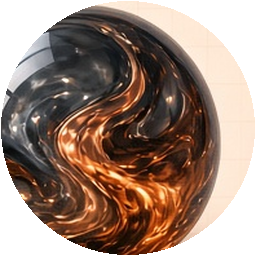
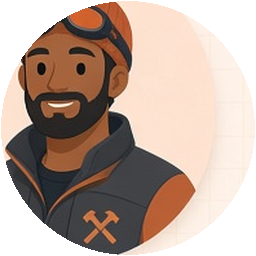
Johnny reverse lock: illustrated portraits, not orbs
Restore face sheets + marquee v2; re-slice avatars; Muse docs/art DNA for people portraits.

diff --git a/docs/art/ASSETS.md b/docs/art/ASSETS.md
@@ -1,31 +1,27 @@
 # Art assets — `public/kinso/`
 
-Box source of truth: `/workspace/byfae-assets/kinso-clone/`
+Box source: `/workspace/byfae-assets/kinso-clone/`
 
 ## Product UI
 | File | Placement |
 | --- | --- |
-| `01-hero-ui.png` | Hero layered product UI (16:9) |
-| `02-feature-draft.png` | Draft / Send feature band (4:3) |
-| `03-feature-match.png` | Leftover-job match search (4:3) |
-| `04-feature-context.png` | How you talk / never send → seat (4:3) |
-| `06-dark-week.png` / `06-dark-week-v2.png` | Dark week zone; chips **Priority / Leftover / Sent** only |
+| `01-hero-ui.png` | Hero layered product UI |
+| `02-feature-draft.png` | Draft / Send feature band |
+| `03-feature-match.png` | Leftover-job match band |
+| `04-feature-context.png` | How you talk / never send |
+| `06-dark-week.png` / `06-dark-week-v2.png` | Dark week — chips Priority / Leftover / Sent |
 
-## Marquee
-| File | Notes |
-| --- | --- |
-| `05-employee-marquee-orbs.png` | **Preferred** — unique colored orbs + names |
-| `05-employee-marquee.png` | Latest dense crop of orb marquee |
-| Face / icon marquees (`v2`–`v4`) | Deprecated once orbs wired |
-
-## Agent orbs (17)
+## Agents = people portraits (locked)
 | File | Agents |
 | --- | --- |
-| `07-agents-ops-orbs.png` | Clark, Vesper, Pulse, Anchor, Ledger, Lisa |
-| `08-agents-growth-orbs.png` | Swen, Radar, Scribe, Herald, Nova, Donna |
-| `09-agents-pipeline-orbs.png` | Nexus, Keel, Vox, Steve, Forge |
+| `05-employee-marquee-v2.png` | Dense avatar+name marquee (preferred) |
+| `07-agents-ops.png` | Clark, Vesper, Pulse, Anchor, Ledger, Lisa |
+| `08-agents-growth.png` | Swen, Radar, Scribe, Herald, Nova, Donna |
+| `09-agents-pipeline.png` | Nexus, Keel, Vox, Steve, Forge |
 
-Slice orbs to **1:1** for list rows. **Do not ship face sheets** (`07–09` non-orb).
+Slice circles to 1:1 for list rows.
+
+**Deprecated:** `*-orbs.png` — do not ship.
 
 ## Docs
-Commit this folder to GitHub as `docs/art/` plus root `AGENTS.md` (Helm).
+`docs/art/DNA.md`, `ASSETS.md`, `HANDOFF.md`, `REBUILD-BRIEF.md` + root `AGENTS.md`

diff --git a/docs/art/HANDOFF.md b/docs/art/HANDOFF.md
@@ -1,23 +1,13 @@
 # Muse → Wren handoff
 
-## Current locks
-1. Full Kinso-structure rebuild with Vault copy (not elevation-only)
-2. Agent visuals = **orbs** (Johnny 12 Sep) — swap any face avatars still on tip
-3. Dark-week chips must read **Priority / Leftover / Sent** (v2 art)
-4. Marquee density: prefer orb marquee file; HTML chips OK interim
+## Locks
+1. Kinso-structure rebuild + Vault copy
+2. **Agent visuals = people portraits** (not orbs) — Johnny revised 12 Sep
+3. Dark-week chips: Priority / Leftover / Sent
+4. Prefer face marquee `05-employee-marquee-v2.png` + sheets `07–09` (non-orb)
 
-## Drop paths
-All art: `/workspace/byfae-assets/kinso-clone/` → stage to `public/kinso/`
+## Paths
+`/workspace/byfae-assets/kinso-clone/` → `public/kinso/`
 
-## GitHub for Grok
-Commit:
-- `AGENTS.md` (Helm seeded)
-- `docs/art/DNA.md`
-- `docs/art/ASSETS.md`
-- `docs/art/HANDOFF.md`
-- `docs/art/REBUILD-BRIEF.md` (section map)
-
-So Johnny / Grok can drive changes from repo docs, not chat history.
-
-## Proof
-Vera re-gates Kinso parity after orb swap + soft punch-list. Ridge bumps Render when tip is green.
+## GitHub
+Keep `docs/art/*` updated so Grok can drive changes. Commit portrait lock into DNA/ASSETS.

diff --git a/docs/art/DNA.md b/docs/art/DNA.md
@@ -17,10 +17,10 @@ Duplicate **Kinso.ai** visual structure and design density with Vault / BYFAE co
 - Purple `#7C5AC5`, blue `#0099FF`, coral/peach, teal
 - Soft multi-layer shadows; radius ~12–24px; pills ~999px
 
-## Agent identity (locked)
-- Ready-made employees are **glossy marble / glass orbs** — **not** illustrated face headshots
-- Unique color swirl per agent; soft specular highlight
-- Marquee + employee list use the same orb language
+## Agent identity (locked — Johnny 12 Sep, revised)
+- Ready-made employees use **actual people portraits** (stylized illustrated headshots)
+- **Not** marble/glass orbs
+- Marquee + employee list use the same portrait language; diverse, consistent illustration set
 
 ## Craft bar (She Remains insight)
 - Every major claim gets a **visual explanation**
